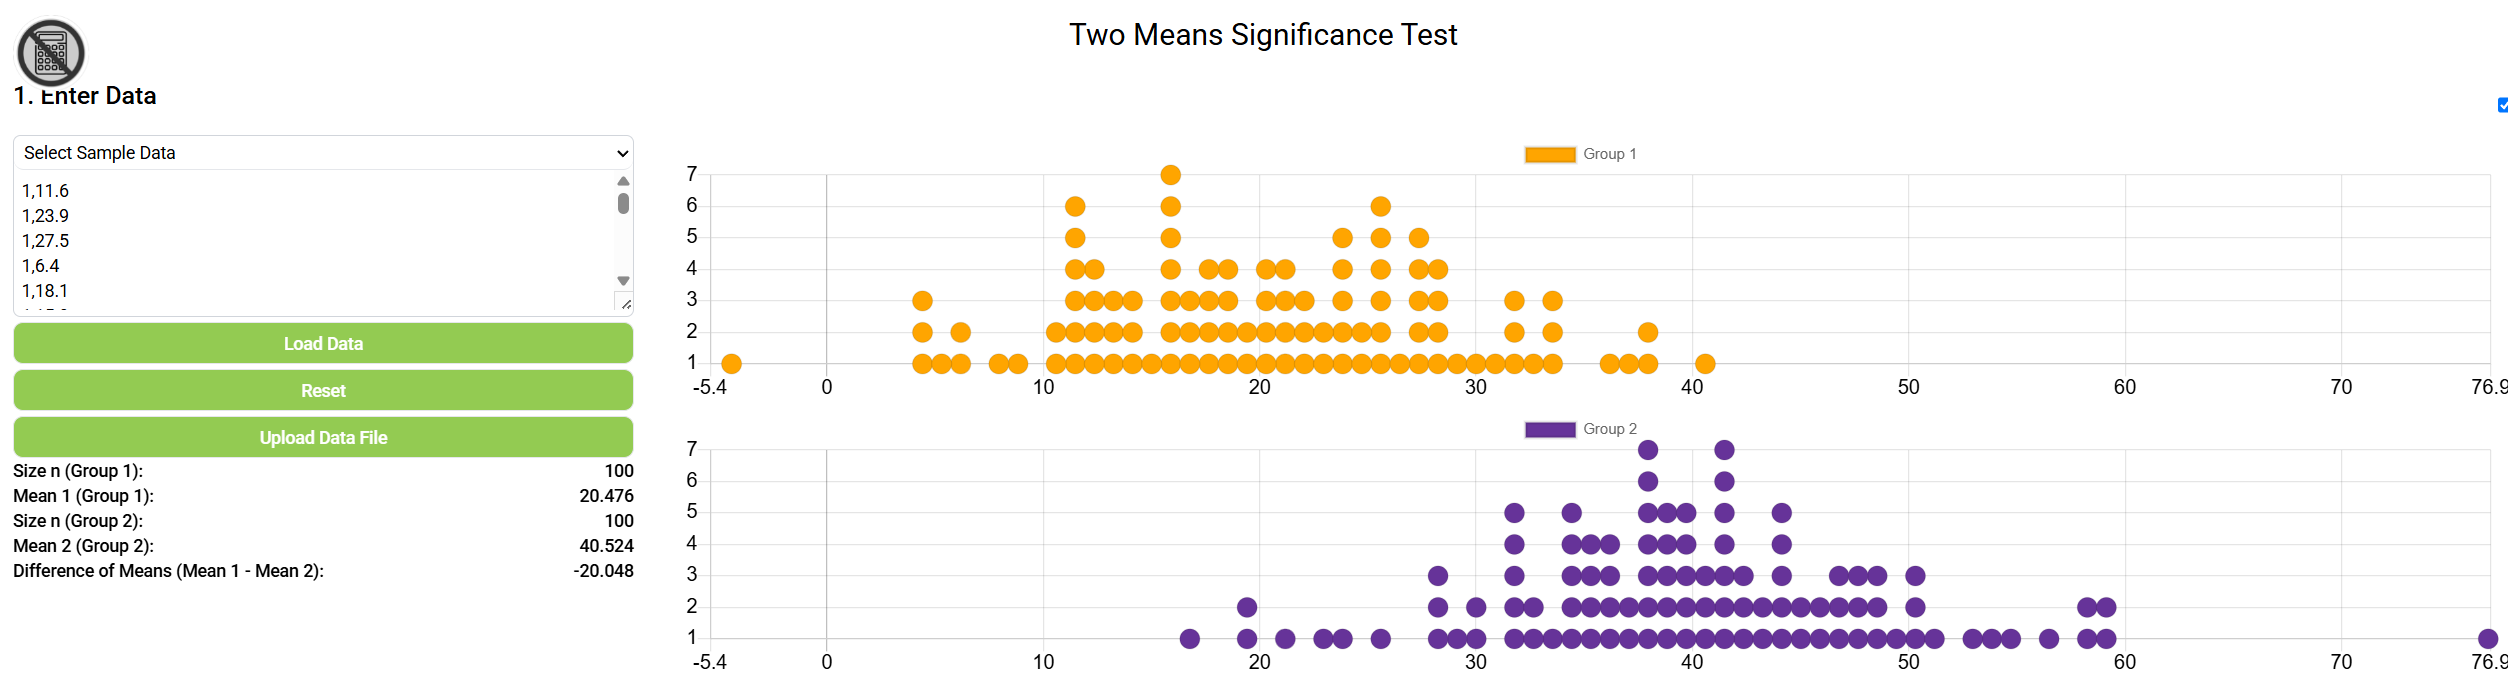
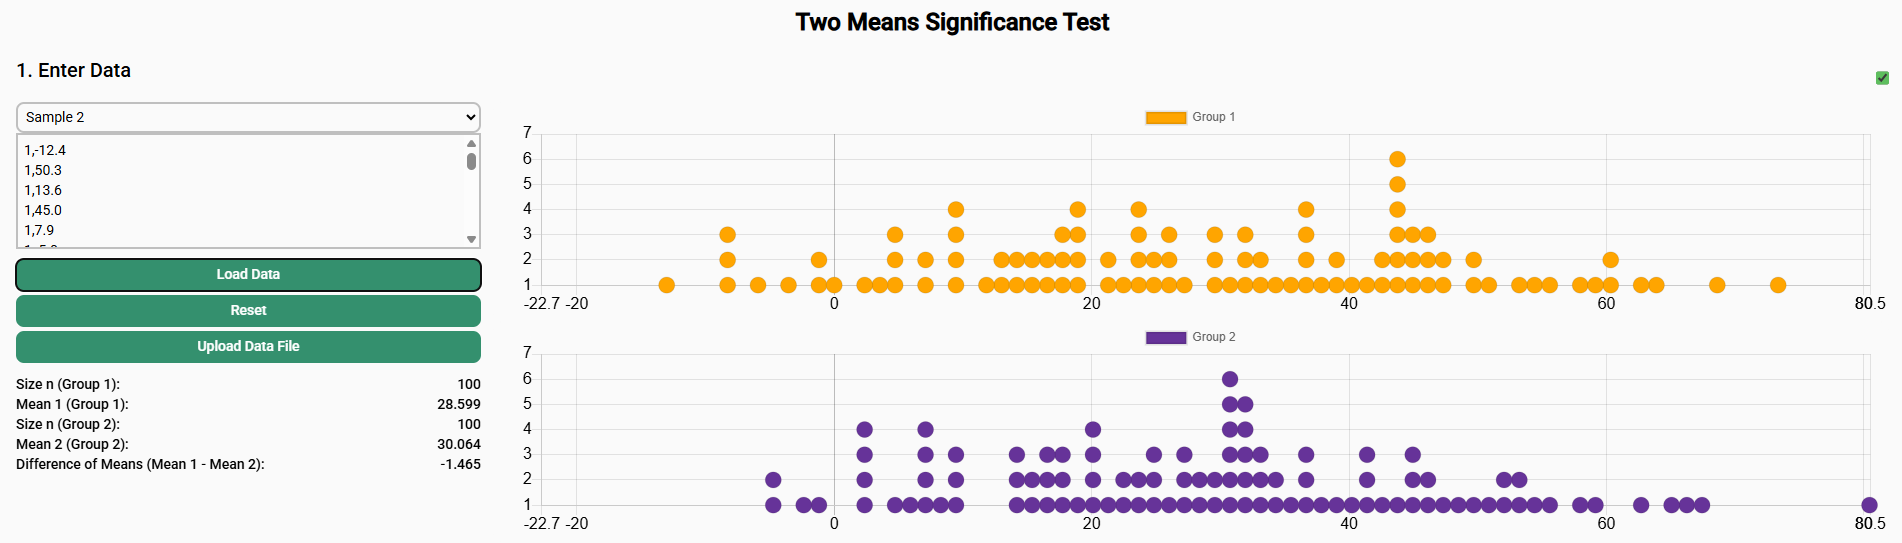
JIRA #138 User Manual: Two Mean Hypothesis Testing | Replaced photos

diff --git a/savis4/src/app/user-manual/user-manual-components/tmht/tmht.component.html b/savis4/src/app/user-manual/user-manual-components/tmht/tmht.component.html
@@ -13,7 +13,9 @@
     </div>
 
     <div class="image-section">
-      <img src="assets/User-Manual-OPHT1.png" alt="Chart 1" class="screenshot" style="width: 900px;" />
+      <img src="assets/TMHT1.png" alt="Chart 1" class="screenshot" style="width: 900px;" />
+      <img src="assets/TMHT2.png" alt="Chart 2" class="screenshot" style="width: 900px;" />
+      <img src="assets/TMHT3.png" alt="Chart 3" class="screenshot" style="width: 900px;" />
     </div>  
 
   <p></p>
